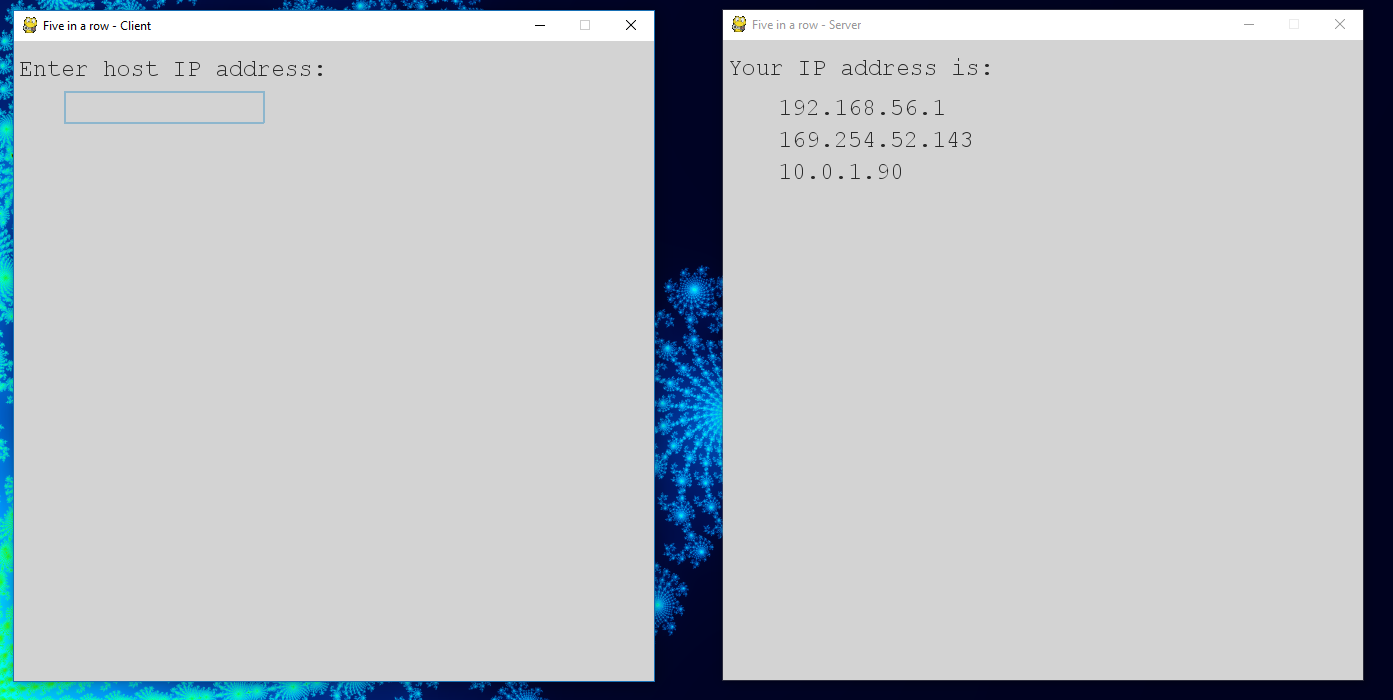
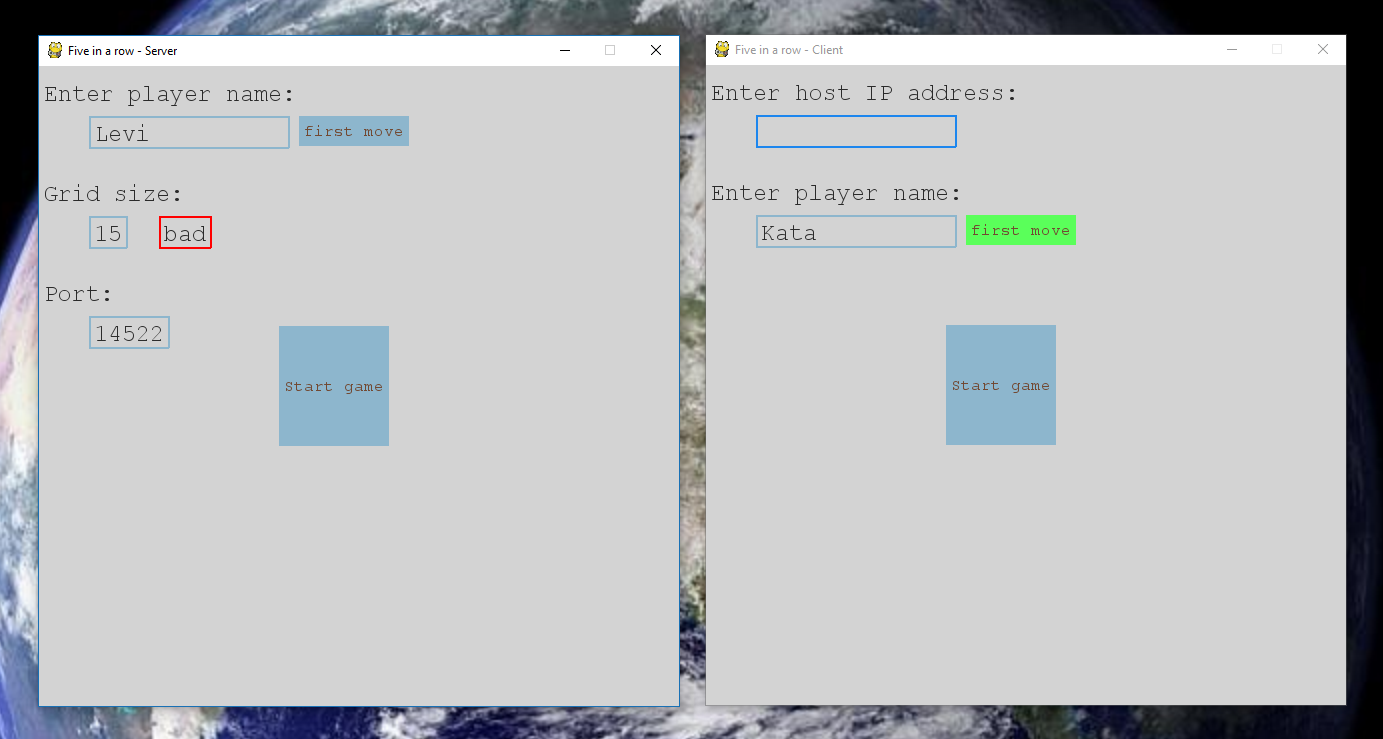
updated readme and added new images. fixed: a screen fill was accidentally commented out.

diff --git a/fiveinarow/fiveinarow.py b/fiveinarow/fiveinarow.py
@@ -199,7 +199,7 @@ class FiveInaRow:
                                   title="Port:", default_text="{}".format(port))
 
 
-        pb = PushButton(self.screen, dim=(240, 260, 160, 120), colors=self.conf['box_colors'], text="Start game")
+        pb = PushButton(self.screen, dim=(240, 260, 160, 120), colors=self.conf['box_colors'], text="Start server")
         pb_fist_move = PushButton(self.screen, dim=(260, 50, 50, 30), colors=self.conf['box_colors'], text="first move")
 
         setup_complete = False
@@ -758,7 +758,7 @@ class FiveInaRow:
         new_game = False
 
         while not self.done:
-            #self.screen.fill(self.conf['bgcolor'])
+            self.screen.fill(self.conf['bgcolor'])
             for event in pygame.event.get():
                 self.__process_exit_event(event)
                 self.grid.process_event(event)
@@ -834,11 +834,11 @@ class FiveInaRow:
             # print game time
             if self.game_is_on:
                 game_time_text = time.strftime("%M:%S", time.gmtime(time.time()-self.game_start_time))
-                x=self.print_text("{}".format(game_time_text), (292, 615), color=self.conf['textcolor'], fontsize=20,
+                self.print_text("{}".format(game_time_text), (292, 615), color=self.conf['textcolor'], fontsize=20,
                                 font='Courier')
             elif self.game_end_time is not None:
                 game_time_text = time.strftime("%M:%S", time.gmtime(self.game_end_time - self.game_start_time))
-                x=self.print_text("{}".format(game_time_text), (292, 615), color=self.conf['textcolor'], fontsize=20, font='Courier')
+                self.print_text("{}".format(game_time_text), (292, 615), color=self.conf['textcolor'], fontsize=20, font='Courier')
 
             if self.mute:
                 self.screen.blit(muted_img, (607, 4))

diff --git a/README.md b/README.md
@@ -18,9 +18,18 @@ use 'setup.py install' for system wide installation or clone, install required p
 
 ## Usage and controls
 
-Grid size, number in a row, custom colors and communication port can be configured via the JSON config file (config.txt) editable by any text editor.
+Default values of grid size, number in a row, custom colors and communication port can be configured via the JSON config file (config.txt) editable by any text editor.
 
-After starting both server and client on a local network the server shows the IP address that should be typed in the client.
+
+After starting both server and client on a local network.
+Enter player names.
+You can change board size and port on the server side, or leave the values default. If an invalid value is entered, the input box changes to red color, and can not start server.
+Press start server. The server is now listening for connection.
+
+In the client enter ip address of the server, use <ip>:<port> format if the port was changed from the default. The client will check if the given text is a possible ip address.
+Press start game.
+
+
 Hostname can be entered too, and non-local connections are supported if the client has internet access and the server network has public IP address and correct port forwarding setup.
 Pressing enter will start connection and the game. Starting player can be set up in the instance's python file.
 
@@ -35,6 +44,6 @@ https://docs.google.com/document/d/1TPv9voaPbGxxiek1CzVrvMTqDQRcO5imVPn9ReHwDKI/
 
 ## Snapshots
 ![Alt text](docs/start.png?raw=true)
-![Alt text](docs/game_black-s_turn.png?raw=true)
-![Alt text](docs/game_black_was_stupid_red_wins.png?raw=true)
-![Alt text](docs/requesting_a_new_game.png?raw=true)
+![Alt text](docs/connecting.png?raw=true)
+![Alt text](docs/in_game.png?raw=true)
+![Alt text](docs/game_over.png?raw=true)
